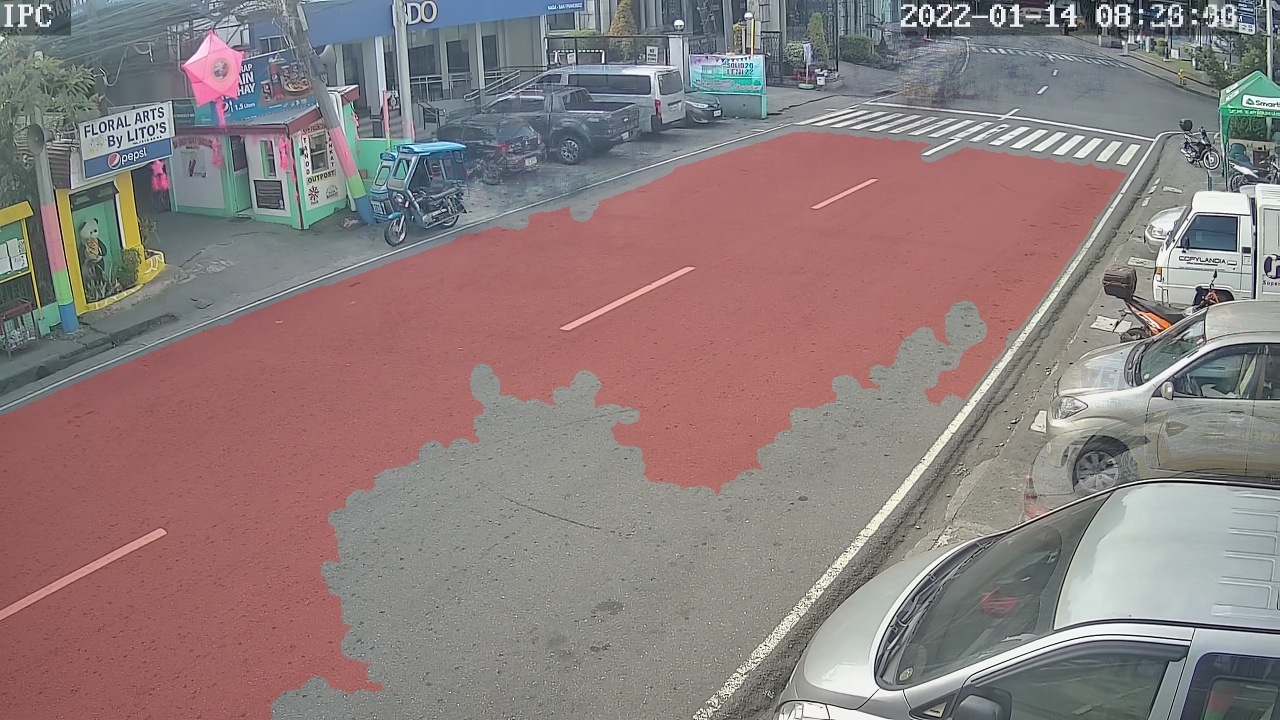
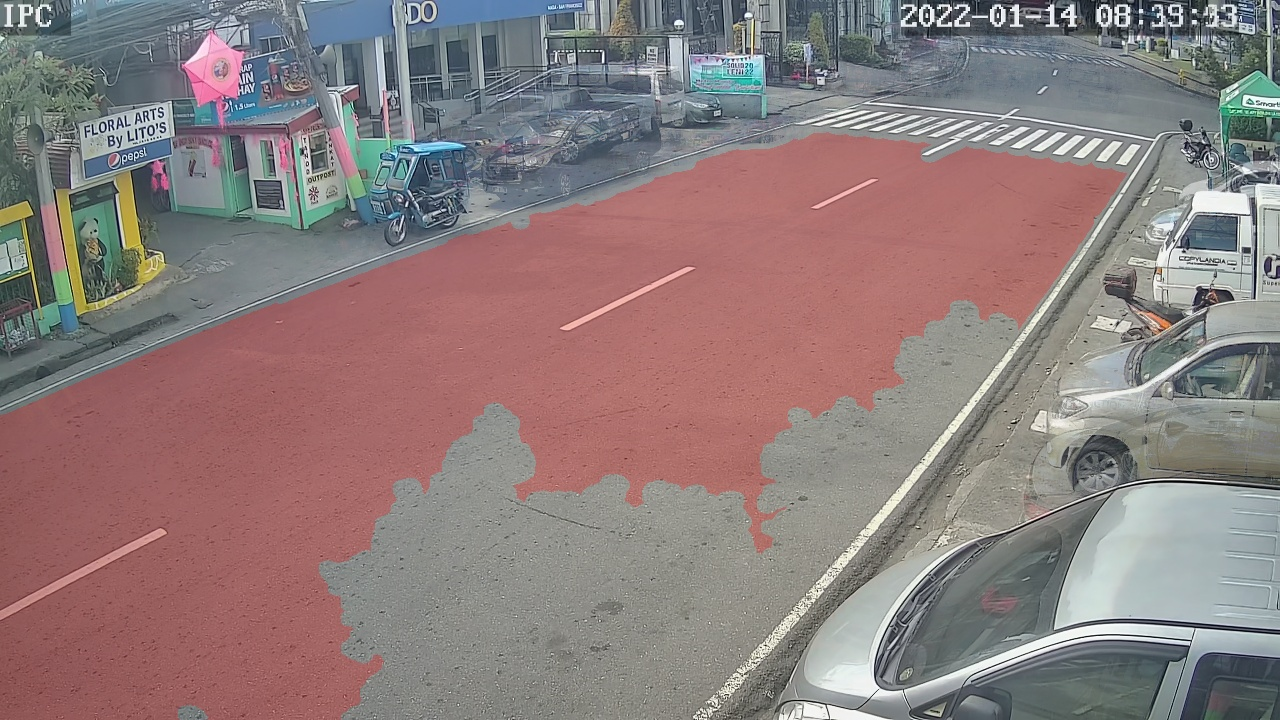
fixed new road extraction while detection is running

diff --git a/Client/mainUi.py b/Client/mainUi.py
@@ -160,12 +160,16 @@ class RoadSetUp1(QtWidgets.QMainWindow):#Road Setting Up Ui
         # self.dataRoadGlobal = res.json()
         
     # execute when all roads were fetched 
-    def getAllRoad(self, response):
+    def getAllRoad(self, response, f = None):
         self.roadThread.quit()
         self.loadingRetrieve.closeWindow()
         print('done retrieve')
-        self.data = response.json()
-        self.dataRoadGlobal = response.json()
+        if f:
+            self.data = response
+            self.dataRoadGlobal = response
+        else:
+            self.data = response.json()
+            self.dataRoadGlobal = response.json()
         self.prevSelectedImage=NULL
         
         if ((len(self.data)%2)==0):
@@ -287,10 +291,15 @@ class RoadSetUp1(QtWidgets.QMainWindow):#Road Setting Up Ui
     
     def finishedDelRoad(self, response):
         self.delThread.quit()
+        # self.setParent(None)# remove contents
+        e = "{}"
+        j = json.loads(e)
+        self.getAllRoad(j, f=True) # remove first contents
+        response = response.json()
+        self.update()
+        self.getAllRoad(response, f=True) # add new roads
         self.loadData.closeWindow()
-        self.setParent(None)# remove contents
-        self.getAllRoad(response)
-        
+        # super(RoadSetUp1, self).__init__()
         
 
 
@@ -320,11 +329,15 @@ class TableUi(QtWidgets.QMainWindow):
         # data = res.json()
         # self.dataViolationGlobal = res.json()
     
-    def finishedGetVio(self, response):
+    def finishedGetVio(self, response, f = None):
         self.vioThread.quit()
         self.loadData.closeWindow()
-        self.data = response.json()
-        self.dataViolationGlobal = response.json()
+        if f:
+            self.data = response
+            self.dataViolationGlobal = response
+        else:
+            self.data = response.json()
+            self.dataViolationGlobal = response.json()
         self.tableWidget.setRowCount(4) 
         self.tableWidget.setItem(0,0, QTableWidgetItem("Name"))
         self.tableWidget.setRowCount(len(self.data))
@@ -386,8 +399,13 @@ class TableUi(QtWidgets.QMainWindow):
         
     def finishedDelViolation(self, response):
         self.delThread.quit()
+        e = "{}"
+        j = json.loads(e)
+        self.finishedGetVio(j, f =True) # remove first contents
+        response = response.json()
+        self.finishedGetVio(response, f =True) # add new roads
         self.loadData.closeWindow()
-        self.finishedGetVio(response)
+        # self.finishedGetVio(response)
         # self.update()
         # self.repaint()
 
@@ -578,7 +596,7 @@ class Controller:
         if self.roadImage is not NULL:
             self.roadLoad.closeWindow()
             self.roadPaint=RoadSetUpPaint()
-            self.roadPaint.switch_window.connect(self.showFinishingUi) # for btn confirm
+            self.roadPaint.switch_window.connect(self.showFinishingUi) # for btn done
             self.roadPaint.show()
         else:
             print("ERROR: An error occure while extracting the road and background model")
@@ -620,7 +638,7 @@ class Controller:
                     self.road.flagRoad = False
                     self.roadImage = cv.imread(self.road.selectedRoadImage)
                 
-            except:
+            except AttributeError:
                 # for btn new
                 self.roadPaint.close()
                 try:
@@ -649,8 +667,8 @@ class Controller:
                 # for c in self.ROI:
                 #     serialized.append(json.dumps(c.tolist()))     
 
-                cv.imwrite("images/{}.jpg".format(roadID), self.roadImage) #writing the image with ROI to Client/images path
-                roadCapturedJPG = "images/"+roadID+".jpg"
+                cv.imwrite(PATH+"/images/{}.jpg".format(roadID), self.roadImage) #writing the image with ROI to Client/images path
+                roadCapturedJPG = PATH+"/images/"+roadID+".jpg"
                 #making the data a json type
                 data = {
                     'roadID' : roadID,
@@ -666,8 +684,10 @@ class Controller:
                 if not self.initDet.det.dets.stopped:
                     #if detection is running
                     #do nothing since ROI has been changed above
+                    print('det is running')
                     pass
             except:
+                print('det is not running')
                 # if detection is not running
                 self.thread = QThread()
                 self.initDet = Worker(self)
@@ -683,10 +703,10 @@ class Controller:
     def saveRoad(self,data):
         headers = {'Content-type': 'application/json', 'Accept': 'text/plain'}
         self.saveRoadThread = QThread()
-        self.saveRoad = ProcessData(action= '/RoadInsert', type=2, d= json.dumps(data), h = headers )
-        self.saveRoad.moveToThread(self.saveRoadThread)
-        self.saveRoadThread.started.connect(self.saveRoad.ret)
-        self.saveRoad.finished.connect(self.finishedSaveRoad)
+        self.sRoad = ProcessData(action= '/RoadInsert', type=2, d= json.dumps(data), h = headers )
+        self.sRoad.moveToThread(self.saveRoadThread)
+        self.saveRoadThread.started.connect(self.sRoad.ret)
+        self.sRoad.finished.connect(self.finishedSaveRoad)
         self.saveRoadThread.start()
         self.loadData = ProcessingDataUi()
         # r = requests.post(url = baseURL + "/RoadInsert",data=json.dumps(data),headers=headers)
@@ -757,7 +777,7 @@ class Worker(QtCore.QObject):
         self.vid = self.w.window.vidFile     
 
     def runBG(self):
-        self.bgImage, self.ROI = processRoad(self.vid)
+        self.bgImage, self.ROI = processRoad(self.vid, PATH)
         self.finished.emit()
         
     def initDet(self):

diff --git a/main.py b/main.py
@@ -8,7 +8,6 @@ from winreg import QueryInfoKey
 
 
 # IMAGE, ROI = None, None
-
 def changePath():
 
     import sys
@@ -20,18 +19,18 @@ def changePath():
     # add to sys path
     sys.path.append(os.getcwd())
 
-def processRoad(vid):
+def processRoad(vid, p):
     qInfo = {'image': None, 'roi':None}
     manager = multiprocessing.Manager()
     queue = manager.Queue()
     queue.put(qInfo)
-    p = Process(target=getBgModelAndRoad, args=(vid, queue,))
+    p = Process(target=getBgModelAndRoad, args=(vid, queue, p,))
     p.start()
     p.join()
     qInfo = queue.get()
     return qInfo['image'], qInfo['roi']
 
-def getBgModelAndRoad(vid, queue):
+def getBgModelAndRoad(vid, queue, p):
     # changePath()
     import cv2 as cv
     # from Yolov5_DeepSort_Pytorch.track import detect
@@ -53,7 +52,7 @@ def getBgModelAndRoad(vid, queue):
     t2 = time.time()
     print('Time it took to Extract Road from the Background Model: %.3fs' % (t2-t1))
     # cv.imshow("road", road_surface)
-    cv.imwrite("images/road.jpg", IMAGE)
+    cv.imwrite(p+"/images/road.jpg", IMAGE)
     ret['image'] = IMAGE
     ret['roi'] = ROI
     queue.put(ret)
